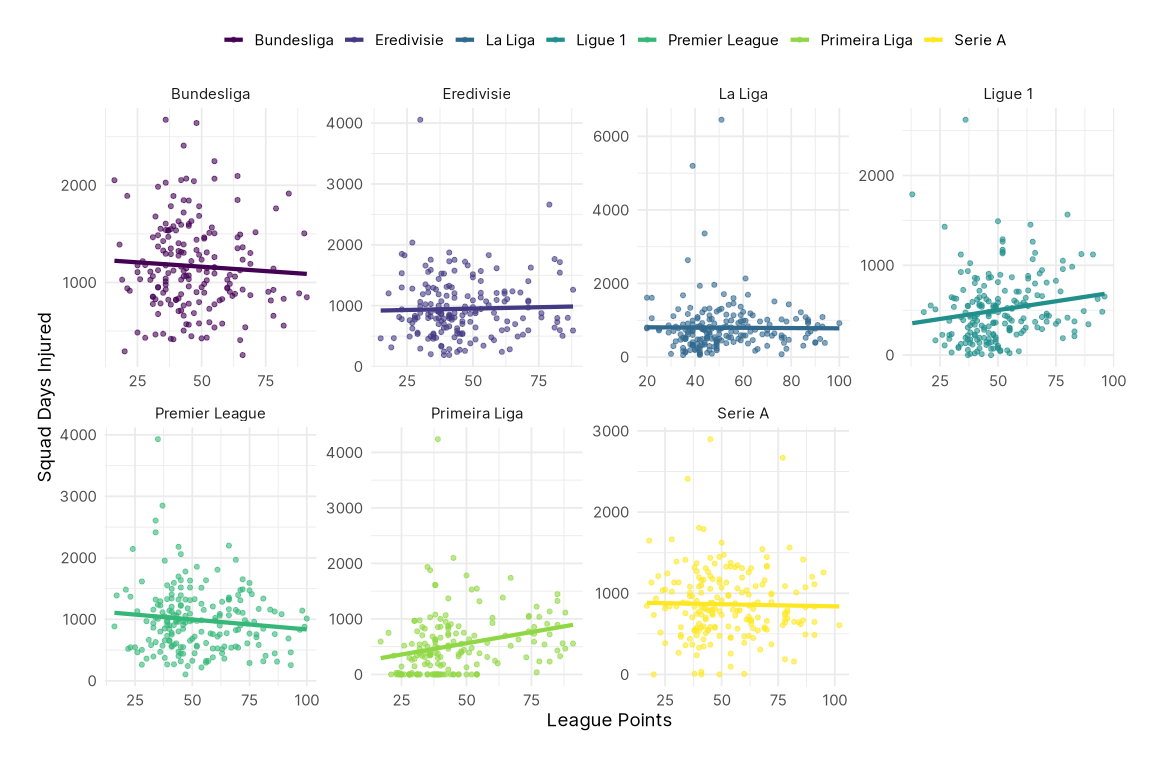
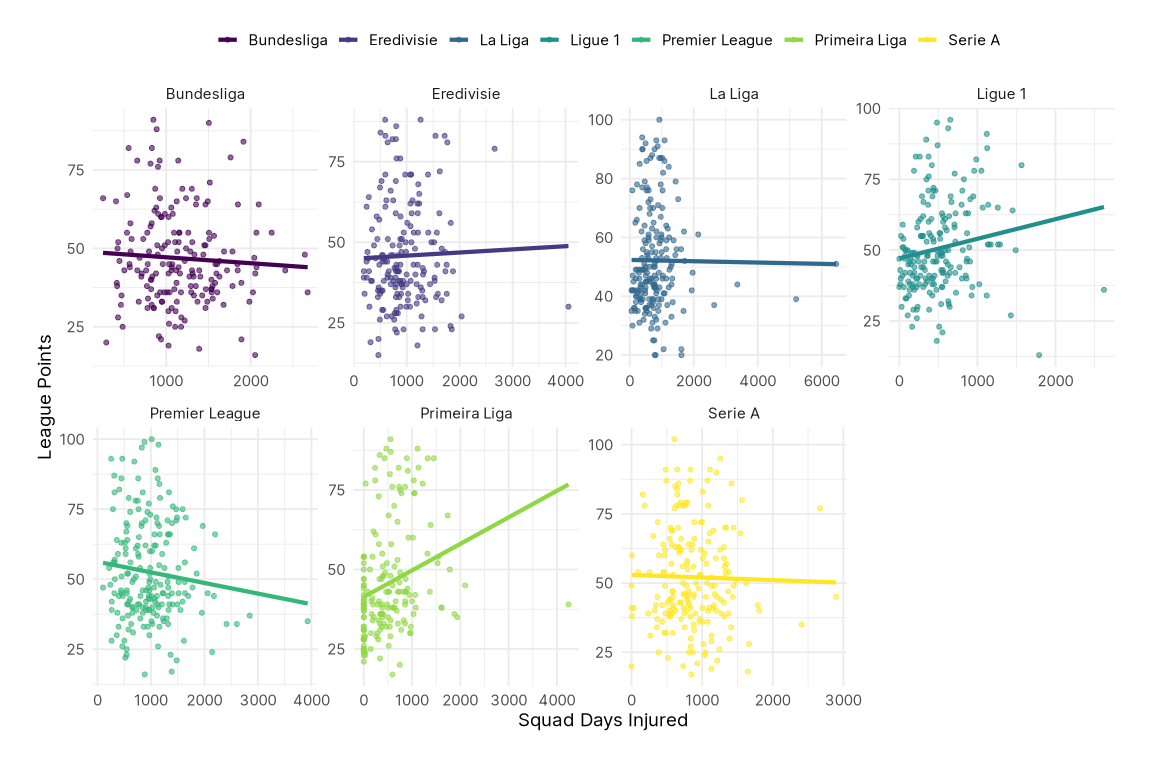
Fix axes and update explanations

diff --git a/output/01-exploratory_data_analysis.md b/output/01-exploratory_data_analysis.md
@@ -163,11 +163,33 @@ club_resources <-
 
 # Net Transfer Spending
 
+I know that points should be on the y-axis, because it is the dependent
+variable, here but the plots are harder to read when I do that, so I’m
+committing data visualization sins in service to **aesthetics**. But
+either way, I’m clearly plotting a line through a mess here.
+
+Perhaps the only interesting bit we can take from this is the fact that
+a higher net spend is (loosely) associated with a higher points total in
+the top five leagues, while Eredivisie and Primeira Liga seem to have
+the opposite association. This will be because big teams in these
+leagues (Ajax, PSV Eindhoven, Benfica etc.) will often sell players on
+to teams in the bigger leagues for lots of money, but still win their
+leagues because of their significant talent advantage.
+
+If someone was looking to do something interesting with net spend, it
+might be worth investigating how the previous season’s points totals
+connected to net spend. But in this case, it doesn’t appear to be
+particularly useful, so I will stick with squad value instead.
+
 ``` r
 club_resources %>%
   ggplot(aes(pts, net_spend, colour = league)) +
+  geom_hline(
+    aes(yintercept = 0),
+    size = 1, colour = "gray30", linetype = "dashed"
+    ) +
   geom_point(alpha = 0.6, size = 1.5) +
-  geom_smooth(method = lm,  se = FALSE, size = 1.5, alpha = 0.8) +
+  geom_smooth(method = lm, se = FALSE, size = 1.5, alpha = 0.8) +
   scale_colour_viridis_d(guide = guide_legend(nrow = 1)) +
   scale_y_continuous(
     labels = label_number(
@@ -185,19 +207,19 @@ club_resources %>%
 
 # Squad Depth
 
-- The number of players seems to have a negative correlation with points
-  (this is itself relatively interesting), but I suspect it is a
-  relevant control variable.
+The number of players seems to have a negative correlation with points
+(this is itself relatively interesting), but I suspect it might be a
+relevant control variable.
 
 ``` r
 club_resources %>%
-  ggplot(aes(pts, num_players)) +
+  ggplot(aes(num_players, pts)) +
   geom_point(alpha = 0.6, size = 1.5, colour = "gray30") +
   geom_smooth(
     method = lm, formula = y ~ splines::bs(x),
     se = FALSE, size = 1.5, alpha = 0.6
     ) +
-  labs(x = "League Points", y = "Players")
+  labs(x = "Players", y = "League Points")
 ```
 
 ![](01-exploratory_data_analysis_files/figure-gfm/squad-size-1.png)
@@ -206,46 +228,47 @@ club_resources %>%
 
 ``` r
 club_resources %>%
-  ggplot(aes(pts, num_players, colour = league)) +
+  ggplot(aes(num_players, pts, colour = league)) +
   geom_point(alpha = 0.6, size = 1.5) +
   geom_smooth(method = lm,  se = FALSE, size = 1.5, alpha = 0.6) +
   scale_colour_viridis_d(guide = guide_legend(nrow = 1)) +
-  labs(x = "League Points", y = "Players")
+  labs(x = "Players", y = "League Points")
 ```
 
 ![](01-exploratory_data_analysis_files/figure-gfm/squad-size-pts-1.png)
 
 ``` r
 club_resources %>%
-  ggplot(aes(pts, num_players, colour = league)) +
+  ggplot(aes(num_players, pts, colour = league)) +
   geom_point(alpha = 0.6, size = 1.5) +
   geom_smooth(method = lm, se = FALSE, size = 1.5, alpha = 0.8) +
   scale_colour_viridis_d(guide = guide_legend(nrow = 1)) +
   facet_wrap(~ league, scales = "free", nrow = 2) +
-  labs(x = "League Points", y = "Players")
+  labs(x = "Players", y = "League Points")
 ```
 
 ![](01-exploratory_data_analysis_files/figure-gfm/squad-size-pts-2.png)
 
 # Injuries
 
-- The number of games missed through injury is clearly a function of the
-  number of games a team plays each season, and because the injury data
-  appears to include **all** games missed, not just league games, there
-  is a positive relationship between points and games missed to injury.
+The total number of games missed through injury is clearly a function of
+the number of games a team plays each season, and because the injury
+data appears to include **all** games missed, not just league games,
+there is a positive relationship between points and games missed to
+injury. As a result, I’ve used `days_injured` instead, which is an
+imperfect measure of the effect injuries have on a team, but at least
+will not be a function of a team’s success in non-league competitions.
 
-- As a result, I’ve used days_injured instead, which is an imperfect
-  measure of the effect injuries have on a team, but at least will not
-  be a function of a team’s success in non-league competitions.
+But it’s not telling us a whole lot on anyway…
 
 ``` r
 club_resources %>%
-  ggplot(aes(pts, days_injured, colour = league)) +
+  ggplot(aes(days_injured, pts, colour = league)) +
   geom_point(alpha = 0.6, size = 1.5) +
   geom_smooth(method = lm, se = FALSE, size = 1.5, alpha = 0.8) +
   scale_colour_viridis_d(guide = guide_legend(nrow = 1)) +
   facet_wrap(~ league, scales = "free", nrow = 2) +
-  labs(x = "League Points", y = "Squad Days Injured")
+  labs(x = "Squad Days Injured", y = "League Points")
 ```
 
 ![](01-exploratory_data_analysis_files/figure-gfm/injuries-1.png)
@@ -269,6 +292,9 @@ club_resources %>%
 
 ## Distributions of Squad Values Across Leagues
 
+You can see the within-league disparity in squad values growing over the
+course of the decade, especially in the Premier League and Serie A.
+
 ``` r
 club_resources %>%
   ggplot(aes(x = value, y = forcats::as_factor(season), fill = league)) +
@@ -288,54 +314,44 @@ club_resources %>%
 
 ## The Relationship Between Squad Value & Points
 
-- One of the most noticeable details that you can identify from the EDA
-  is that there appears to be not only a different intercept for each
-  league, but also the slope differs too. This is not entirely
-  surprising, but it wasn’t my initial working assumption. I was
-  starting from an assumption that the differences would be based on
-  leagues having different intercepts.
+One of the most noticeable details here is that there appears to be not
+only a different intercept for each league, but also the slope differs
+too. This is not entirely surprising, but it wasn’t my initial working
+assumption. I was starting from an assumption that the differences would
+be based on leagues having different intercepts.
 
-- Is there also a non-linear trend in certain leagues? There does look
-  like there might be an exponential relationship between market value
-  and points. This may exist across all leagues, it’s just that some
-  league don’t have such large disparities that that trend shows up?
-
-- I need to facet the leagues to look at them individually as well.
-
-- When log-transformed, there doesn’t appear to be a massive difference
-  in the slopes of each league, except for the Austrian Bundesliga, and
-  Ligue 1. However, I’m not sure the difference is big enough to make it
-  worth modelling varying slopes.
+I’ve added splines to the faceted plots to account for some of the
+non-linearity in the trend in certain leagues. I’m not sure that this is
+necessarily significant enough that I need to go to great lengths to
+incorporate it into the analysis, though I do need to consider it.
 
 ``` r
 club_resources %>%
-  ggplot(aes(pts, value, colour = league)) +
+  ggplot(aes(value, pts, colour = league)) +
   geom_point(alpha = 0.6, size = 1.5) +
-  geom_smooth(
-    method = lm, formula = y ~ splines::bs(x),
-    se = FALSE, size = 1.5, alpha = 0.6) +
+  geom_smooth(method = lm, se = FALSE, size = 1.5, alpha = 0.6) +
   scale_colour_viridis_d(guide = guide_legend(nrow = 1)) +
-  scale_y_continuous(
+  scale_x_continuous(
     labels = label_number(scale_cut = cut_short_scale(), prefix = "€")
     ) +
-  labs(x = "League Points", y = "Squad Market Value")
+  labs(x = "Squad Market Value", y = "League Points")
 ```
 
 ![](01-exploratory_data_analysis_files/figure-gfm/pts-and-values-1.png)
 
 ``` r
 club_resources %>%
-  ggplot(aes(pts, value, colour = league)) +
+  ggplot(aes(value, pts, colour = league)) +
   geom_point(alpha = 0.4, size = 1.5, colour = "gray30") +
   geom_smooth(
     method = lm, formula = y ~ splines::bs(x),
     se = FALSE, size = 1.5, alpha = 0.6) +
   scale_colour_viridis_d(guide = guide_legend(nrow = 1)) +
-  scale_y_continuous(
+  scale_x_continuous(
     labels = label_number(scale_cut = cut_short_scale(), prefix = "€")
     ) +
   facet_wrap(~ league, scales = "free", nrow = 2) +
-  labs(x = "League Points", y = "Squad Market Value")
+  labs(x = "Squad Market Value", y = "League Points")
 ```
 
 ![](01-exploratory_data_analysis_files/figure-gfm/pts-and-values-2.png)
@@ -346,37 +362,60 @@ Time doesn’t appear to have an impact the intercepts in any meaningful
 way, but it clearly has a role to play in the slope in each league. This
 makes sense. Each season is a more or less separate entity, and over
 time, as bigger teams have increasingly high value teams, the way that
-points are distributed chagnes, and the role that money plays changes.
+points are distributed changes, and the role that money plays changes.
 
 ``` r
 club_resources %>%
-  ggplot(aes(pts, value, colour = season)) +
+  ggplot(aes(value, pts, colour = season)) +
   geom_point(alpha = 0.6, size = 1.5) +
   geom_smooth(
-    method = lm, formula = y ~ splines::bs(x),
+    method = lm, 
     se = FALSE, size = 1.5, alpha = 0.6) +
   scale_colour_viridis_d(guide = guide_legend(nrow = 1)) +
-  scale_y_continuous(
+  scale_x_continuous(
     labels = label_number(scale_cut = cut_short_scale(), prefix = "€")
     ) +
-  labs(x = "League Points", y = "Squad Market Value")
+  labs(x = "Squad Market Value", y = "League Points")
 ```
 
 ![](01-exploratory_data_analysis_files/figure-gfm/pts-and-values-by-season-1.png)
 
 ``` r
 club_resources %>%
-  ggplot(aes(pts, value, colour = season)) +
+  ggplot(aes(value, pts, colour = season)) +
   geom_point(alpha = 0.4, size = 1.5, colour = "gray30") +
   geom_smooth(
     method = lm, formula = y ~ splines::bs(x),
     se = FALSE, size = 1, alpha = 0.6) +
   scale_colour_viridis_d(guide = guide_legend(nrow = 1)) +
-  scale_y_continuous(
+  scale_x_continuous(
     labels = label_number(scale_cut = cut_short_scale(), prefix = "€")
     ) +
   facet_wrap(~ league, scales = "free", nrow = 2) +
-  labs(x = "League Points", y = "Squad Market Value")
+  labs(x = "Squad Market Value", y = "League Points")
 ```
 
 ![](01-exploratory_data_analysis_files/figure-gfm/pts-and-values-by-season-2.png)
+
+#### Time is Weird
+
+If we add splines to the previous facet plot, we create a weird sea
+creature. It doesn’t help us draw a ton of inference from the data, but
+it looks nice, doesn’t it? I am a fully grown adult scientist.
+
+``` r
+club_resources %>%
+  ggplot(aes(value, pts, colour = season)) +
+  geom_point(alpha = 0.4, size = 1.5, colour = "gray30") +
+  geom_smooth(
+    method = lm, formula = y ~ splines::bs(x),
+    se = FALSE, size = 1, alpha = 0.6) +
+  scale_colour_viridis_d(guide = guide_legend(nrow = 1)) +
+  scale_x_continuous(
+    labels = label_number(scale_cut = cut_short_scale(), prefix = "€")
+    ) +
+  facet_wrap(~ league, scales = "free", nrow = 2) +
+  labs(x = "Squad Market Value", y = "League Points")
+```
+
+![](01-exploratory_data_analysis_files/figure-gfm/weird-splines-1.png)
